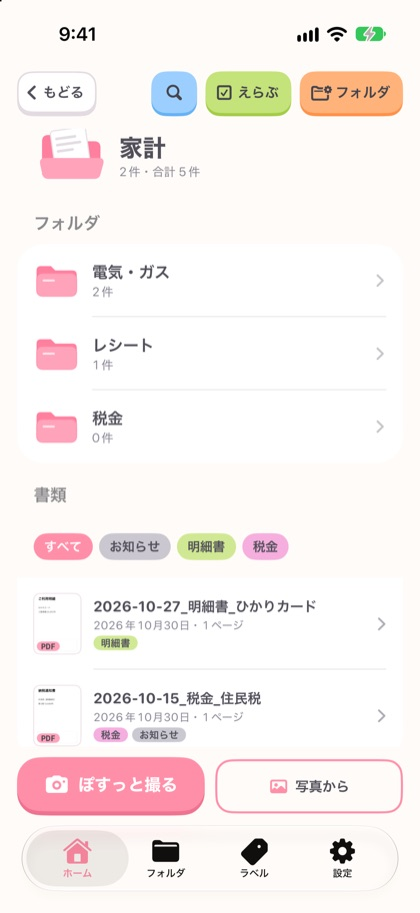
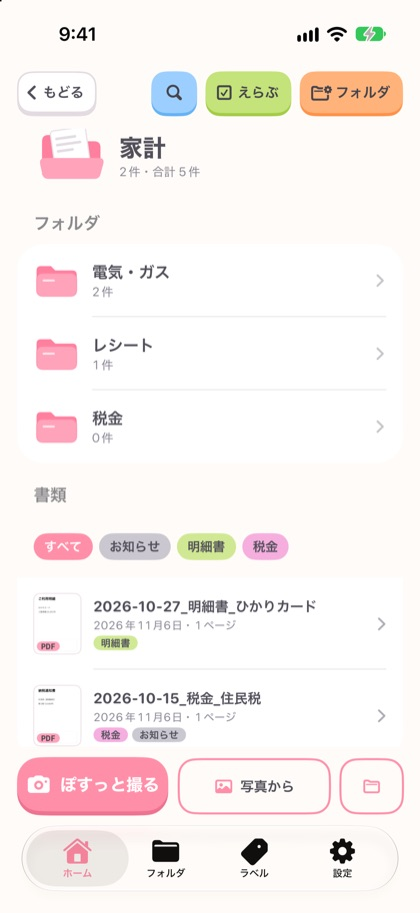
[概要] 紙ぽす サポートサイトを 1.1 向けに更新し更新履歴を追加

diff --git a/index.html b/index.html
@@ -7,7 +7,7 @@
   <meta name="description" content="紙ぽすは、届いた書類やお便り、レシートを撮るだけで、きれいな PDF にしてフォルダに整理する iPhone・iPad のアプリです。">
   <link rel="icon" href="images/icon.png">
   <link rel="apple-touch-icon" href="images/icon.png">
-  <link rel="stylesheet" href="style.css?v=20261104">
+  <link rel="stylesheet" href="style.css?v=20261107">
 </head>
 <body>
 <main>
@@ -19,7 +19,7 @@
     <p class="store"><a href="https://apps.apple.com/jp/app/id6828465858"><img class="badge" src="images/app-store-badge.svg" alt="App Store からダウンロード" width="136" height="50"></a></p>
     <p class="device">iPhone・iPad（iOS 27・iPadOS 27 以上）</p>
   </header>
-  <nav><a href="./">サポート</a><a href="privacy.html">プライバシーポリシー</a></nav>
+  <nav><a href="./">サポート</a><a href="releases.html">更新履歴</a><a href="privacy.html">プライバシーポリシー</a></nav>
 
   <div class="shots" aria-label="アプリの画面">
     <figure><img src="images/iphone_1_home.jpg" alt="ホームの画面" loading="lazy"><figcaption>ホーム</figcaption></figure>
@@ -32,12 +32,14 @@
   <section>
     <h2>紙ぽすでできること</h2>
     <ul class="features">
-      <li><strong>撮るだけで PDF に</strong>紙の四隅を見つけて切り出し、まっすぐに直します。何ページでもまとめて 1 つの PDF に。写真アプリの画像からも取り込めます。</li>
+      <li><strong>撮るだけで PDF に</strong>紙の四隅を見つけて切り出し、まっすぐに直します。何ページでもまとめて 1 つの PDF に。写真アプリの画像や、「ファイル」アプリ・メールの添付の画像と PDF からも取り込めます。</li>
+      <li><strong>ぽすっとPDF ボタン</strong>コントロールセンターやロック画面に「ぽすっとPDF」のボタンを置けます。押すと紙ぽすが開いて、すぐにカメラで撮れます。</li>
       <li><strong>小さな文字まできれいに</strong>紙ぽすのカメラは写真と同じ画素数で撮ります。紙を枠に入れて少し待つと自動で撮り、手動にも切り替えられます。</li>
       <li><strong>撮ったその場で見直し</strong>撮った写真を押すと、回す・四隅を直す・明るさの補正・削除がすぐにできます。保存したあとの書類も、あとから直せます。</li>
       <li><strong>題名とラベルはおまかせ</strong>iPhone の中の AI が書類を読んで、題名とラベル（請求書・学校・保険など）を付け、合いそうなフォルダを勧めます。</li>
       <li><strong>フォルダとラベルで整理</strong>フォルダの中にフォルダを作れて、名前・色・並び順も自由です。ラベルを押すと、同じラベルの書類をまとめて見られます。</li>
-      <li><strong>家族と共有</strong>フォルダごと家族を招待すると、家族の iPhone にも同じ書類が出ます。</li>
+      <li><strong>お気に入り</strong>大事な書類は ☆ を押してお気に入りに。ホームの「お気に入り」にまとまり、すぐに開けます。</li>
+      <li><strong>家族と共有</strong>フォルダごと家族を招待すると、家族の iPhone にも同じ書類が出ます。お気に入りも家族と共有されます。</li>
       <li><strong>送る・書き出す</strong>PDF のまま、またはフォルダごと zip にして、LINE・メール・ファイルなどへ。書類の一覧（CSV）も入るので、Excel や Numbers で整えて読み込み直せます。</li>
       <li><strong>iPad でも</strong>大きな画面で、縦でも横でも使えます。</li>
     </ul>
@@ -80,13 +82,22 @@
     <p>iPhone と、ご自身の iCloud に保存されます。紙ぽすの設定で iCloud への保存をオフにすると、iPhone の中だけに保存されます。開発者が書類を見ることはありません。</p>
 
     <h3>家族の iPhone に書類が出てきません</h3>
-    <p>家族の iPhone にも紙ぽすを入れ、招待のリンクを開いて参加してください。両方の iPhone が iCloud にサインインし、インターネットにつながっている必要があります。反映まで少し時間がかかることがあります。</p>
+    <p>家族の iPhone にも紙ぽすを入れ、招待のリンクを開いて参加してください。両方の iPhone が iCloud にサインインし、インターネットにつながっている必要があります。反映まで少し時間がかかることがあります。一覧を下に引っ張ると、共有の状態を最新にして、iCloud との同期の様子を表示します。</p>
 
     <h3>家族との共有をやめたい</h3>
-    <p>フォルダのタブで、共有しているフォルダを右から左へスワイプし、「家族と共有」の画面で「共有を停止」を押してください。家族の iPhone からは見えなくなり、ご自身の iPhone には残ります。</p>
+    <p>フォルダのタブで、共有しているフォルダを左から右へスワイプし、「家族と共有」の画面で「共有を停止」を押してください。家族の iPhone からは見えなくなり、ご自身の iPhone には残ります。</p>
 
     <h3>共有しているフォルダを削除するとどうなりますか</h3>
     <p>フォルダの中の書類は、共有している全員のゴミ箱に入ります（ゴミ箱から戻せます）。ゴミ箱を空にして中身がなくなると、共有も終わります。見るだけの権限で招待された人は、削除できません。</p>
+
+    <h3>お気に入りの使い方</h3>
+    <p>書類を開いて右上の ☆ を押すか、一覧で書類を左から右へスワイプすると、お気に入りになります。ホームの「お気に入り」の見出しを押すと、たたんだり広げたりできます。「⭐お気に入り」のラベルは名前を変えたり削除したりできません。</p>
+
+    <h3>「ファイル」やメールの添付から取り込みたい</h3>
+    <p>「ファイル」アプリやメールで、画像か PDF を開いて共有のボタンを押し、アプリの並びから紙ぽすを選んでください（並びに無いときは右端の「その他」から）。紙ぽすが開いて、確認の画面に並びます。ホームの「ファイルからPDF」からも選べます。PDF は 1 回に 50 ページまで取り込めます。</p>
+
+    <h3>「ぽすっとPDF」のボタンを置きたい</h3>
+    <p>コントロールセンターを開いて左上の「＋」から「コントロールを追加」を選び、「紙ぽす」を探して追加してください。ロック画面に置くときは、ロック画面を長押しして「カスタマイズ」から、下の左右のボタンを入れ替えます。押すと紙ぽすが開いて、設定で選んでいるカメラがすぐに出ます。</p>
 
     <h3>消した書類を元に戻したい</h3>
     <p>消した書類はゴミ箱に入り、ゴミ箱から戻せます。ゴミ箱に置いておく日数は設定で変えられます。</p>

diff --git a/releases.html b/releases.html
@@ -1,0 +1,40 @@
+<!DOCTYPE html>
+<html lang="ja">
+<head>
+  <meta charset="utf-8">
+  <meta name="viewport" content="width=device-width, initial-scale=1">
+  <title>紙ぽす 更新履歴</title>
+  <meta name="description" content="紙ぽすのバージョンごとの新しい機能と修正の一覧です。">
+  <link rel="icon" href="images/icon.png">
+  <link rel="stylesheet" href="style.css?v=20261107">
+</head>
+<body>
+<main>
+  <header>
+    <h1>紙ぽす</h1>
+    <p>更新履歴</p>
+  </header>
+  <nav><a href="./">サポート</a><a href="releases.html">更新履歴</a><a href="privacy.html">プライバシーポリシー</a></nav>
+
+  <!-- 新しい版をいちばん上に足していく -->
+  <section class="release">
+    <h2>Ver 1.1<span class="release-date">2026年11月</span></h2>
+    <h3>お気に入り</h3>
+    <p>大事な書類に ☆ を付けると、ホームの「お気に入り」にまとまります。家族や仲間と共有しているフォルダの書類なら、相手の iPhone でもお気に入りになります。お気に入りのエリアは折りたためます。</p>
+    <h3>ほかのアプリから取り込む</h3>
+    <p>「ファイル」アプリやメールの添付から、画像や PDF を紙ぽすに送って PDF にできます。ホームの「ファイルからPDF」からも選べます。</p>
+    <h3>ぽすっとPDF ボタン</h3>
+    <p>コントロールセンターやロック画面に「ぽすっとPDF」のボタンを置けます。押すと紙ぽすが開いて、すぐにカメラで撮れます。</p>
+    <h3>そのほか</h3>
+    <p>一覧を下に引っ張ると、家族や仲間との共有の状態を最新にして、iCloud との同期の様子を表示します。</p>
+  </section>
+
+  <section class="release">
+    <h2>Ver 1.0<span class="release-date">2026年11月4日</span></h2>
+    <p>最初の版です。紙の書類を撮って PDF にし、題名とラベルを AI で付けて、フォルダとラベルで整理できます。家族とのフォルダの共有、PDF・zip での書き出し、ゴミ箱、iPad にも対応しています。</p>
+  </section>
+
+  <footer>&copy; 2026 紙ぽす</footer>
+</main>
+</body>
+</html>

diff --git a/privacy.html b/privacy.html
@@ -5,7 +5,7 @@
   <meta name="viewport" content="width=device-width, initial-scale=1">
   <title>紙ぽす プライバシーポリシー</title>
   <link rel="icon" href="images/icon.png">
-  <link rel="stylesheet" href="style.css?v=20261104">
+  <link rel="stylesheet" href="style.css?v=20261107">
 </head>
 <body>
 <main>
@@ -13,7 +13,7 @@
     <h1>紙ぽす</h1>
     <p>プライバシーポリシー</p>
   </header>
-  <nav><a href="./">サポート</a><a href="privacy.html">プライバシーポリシー</a></nav>
+  <nav><a href="./">サポート</a><a href="releases.html">更新履歴</a><a href="privacy.html">プライバシーポリシー</a></nav>
 
   <section>
     <h2>1. 集める情報</h2>

diff --git a/style.css b/style.css
@@ -146,3 +146,8 @@ figcaption { font-size: 0.8rem; color: var(--ink-soft); margin-top: 4px; }
   background: var(--coral);
 }
 .features strong { display: block; }
+
+/* 更新履歴：版の番号の横に、出した日を小さく添える */
+.release h2 { display: flex; align-items: baseline; gap: 12px; }
+.release-date { font-size: 0.85rem; font-weight: normal; color: var(--ink-soft); }
+.release h3:first-of-type { margin-top: 8px; }
